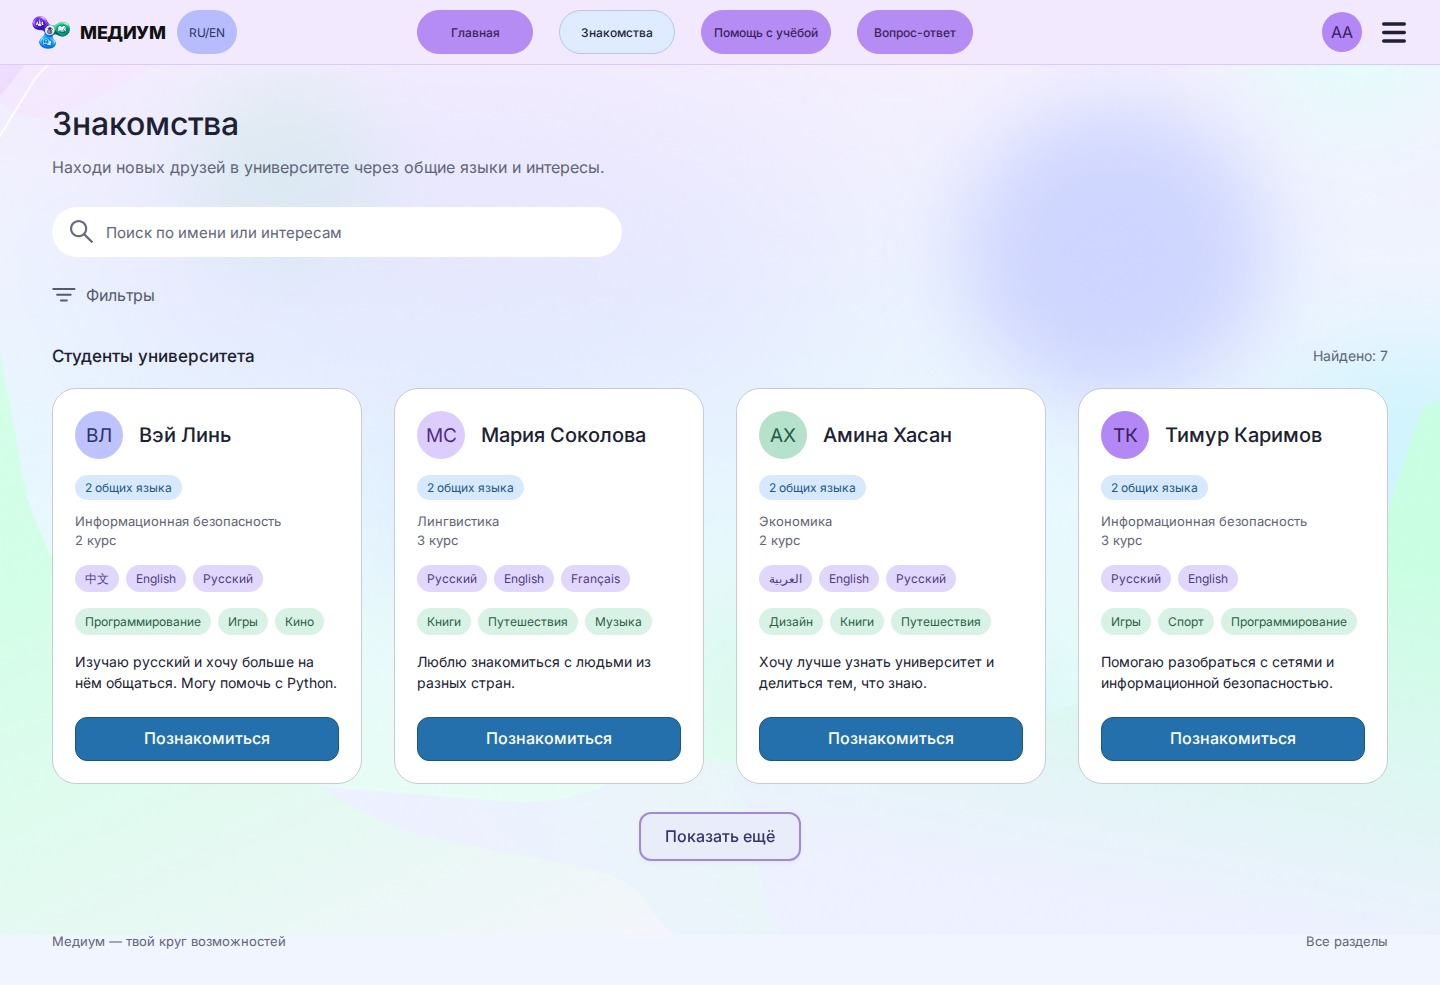
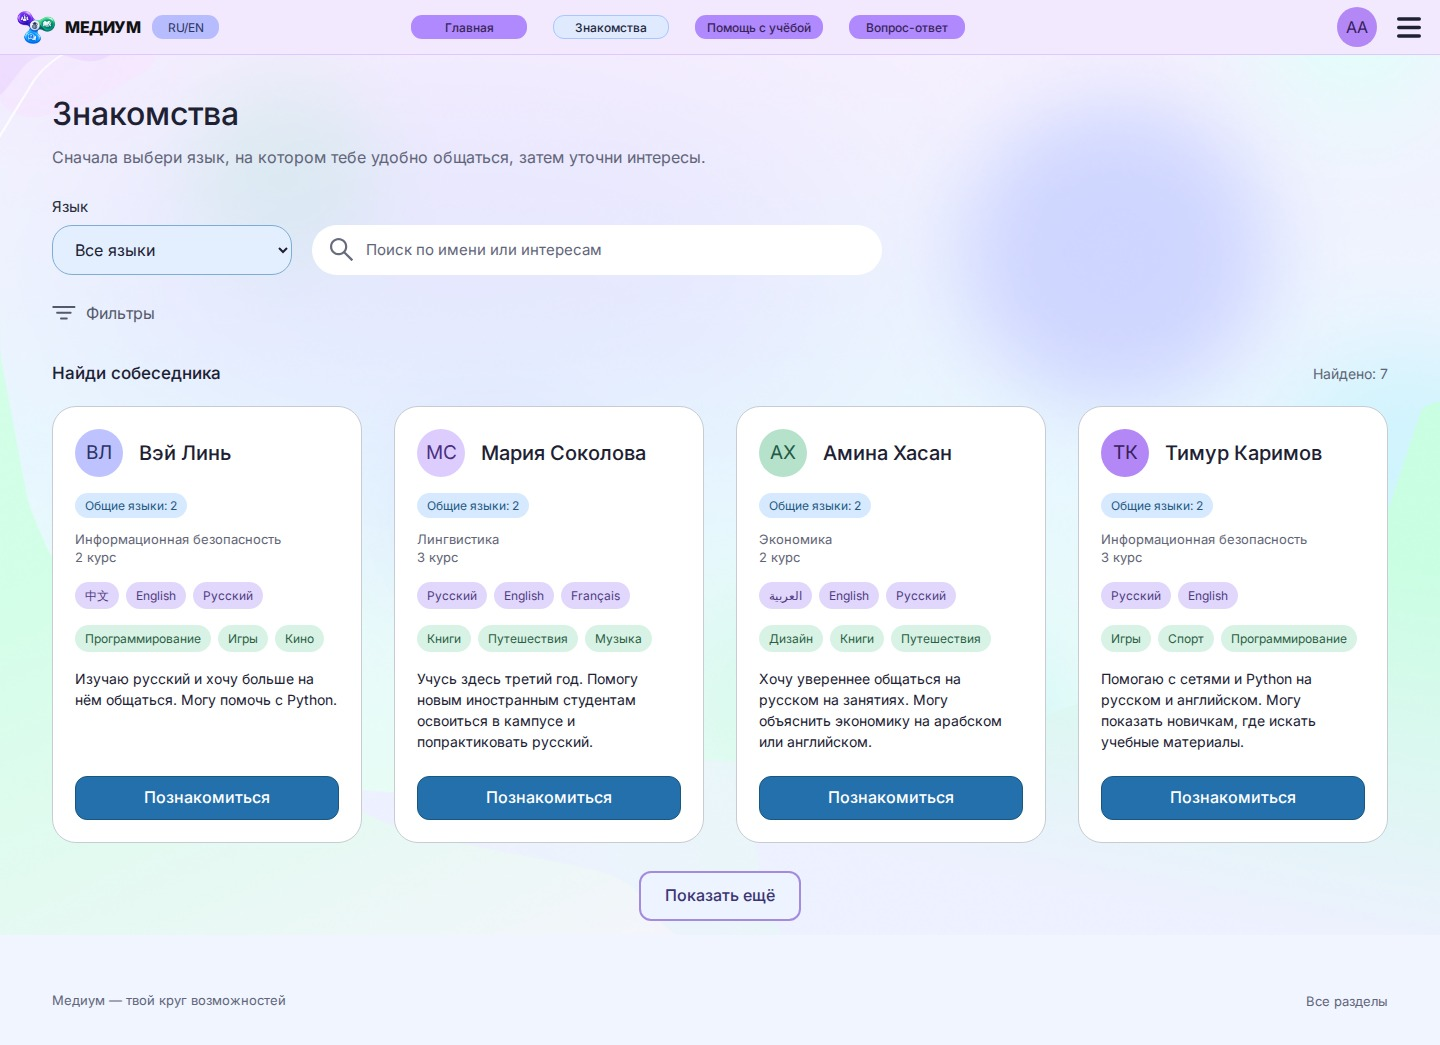
Record verified audience and concept release [skip ci]

diff --git a/docs/REPORT.md b/docs/REPORT.md
@@ -20,7 +20,7 @@
 
 Экраны вопросов и помощи используют общие компоненты. Правила оценки проверены отдельно: оценку ставит автор, повторный выбор заменяет прежний и не начисляет звёзды заново. На телефоне список чатов отделён от переписки; поле ввода размещено в пределах высоты экрана. Исправлено переполнение на узком экране с обычной полосой прокрутки. Текст на светлых кнопках и градиент названия стали темнее, чтобы их было легче читать. Проверка Firefox выявила, что отложенный перевод фокуса на заголовок прерывал ввод в форме. Фокус теперь устанавливается до отрисовки кадра; значения полей считываются сразу в обработчике. Повторный вход проверен в обоих браузерах. На хостинге обнаружены относительные пути CSS-масок: иконки запрашивались из `/assets/assets/` и возвращали 404. Пути стали абсолютными относительно адреса документа; отдельный E2E-тест проверяет HTTP 200 и SVG-содержимое масок. Все браузерные тесты теперь запускаются на production-сборке Vite через preview.
 
-Тексты главной, подсказки, уведомления и демонстрационные описания отредактированы по Humanizer. Русская и английская версии говорят проще; название и слоган бренда сохранены. Убраны лишние обещания и повторения, документация сокращена без изменения команд и ссылок.
+Тексты главной, подсказки, уведомления и демонстрационные описания отредактированы по Humanizer. Русская и английская версии говорят проще; название и слоган бренда сохранены. Убраны лишние обещания и повторения, документация сокращена без изменения команд и ссылок. Подписи счётчиков используют формат «Оценок: 1», «Ответов: 3» и «Общие языки: 2», который подходит для любого числа.
 
 ## Проверки
 
@@ -28,7 +28,7 @@
 | --- | --- |
 | Production-сборка Vite | Прошла |
 | 7 тестов правил приложения | 7 прошли: права на оценку, замена оценки, завершение помощи, публикация, чаты, профиль, хеш пароля, проверка сохранённых данных |
-| Размеры 1440 / 768 / 390 / 320 | 112 проверок: 14 маршрутов на четырёх размерах в Chromium и Firefox; переполнения по горизонтали нет; изображения загружены |
+| Размеры 1440 / 768 / 390 / 320 | 160 проверок: 112 для 14 маршрутов RU и 48 для 6 изменённых маршрутов EN на четырёх размерах в Chromium и Firefox; переполнения по горизонтали нет; изображения загружены |
 | Регистрация и вход | Пустая форма показывает ошибки; аккаунт создаётся; неверный пароль отклоняется; верный пароль открывает сайт |
 | Профиль и знакомства | Профиль сохраняется, работают поиск, пустое состояние и фильтр языка |
 | Вопрос → ответ → оценка | Публикация и ответ проверены от разных демо-пользователей; 5 заменяется на 2; рейтинг обновляется; собственная оценка отключена |
@@ -38,13 +38,13 @@
 | axe A/AA | 44 сканирования 11 маршрутов на ПК и телефоне в Chromium и Firefox; автоматических нарушений не найдено. Полное соответствие WCAG требует также ручной проверки |
 | Скриншоты | 9 экранов ПК и 9 экранов телефона; окно 1440 × 900 и 390 × 844, длинные страницы сняты целиком |
 
-После редактирования текстов на Ubuntu в GitHub Actions прошли все 16 E2E-сценариев в Chromium 153 и Firefox 155. Повторные прогоны не понадобились: ошибок и нестабильных тестов нет. Свежие скриншоты главной, запросов помощи и ответов проверены на ПК и телефоне.
+После уточнения аудитории и оформления на Ubuntu в GitHub Actions прошли все 16 E2E-сценариев в Chromium 153 и Firefox 155. В окончательном прогоне ошибок и нестабильных тестов нет. Свежие скриншоты главной, профиля и рейтинга проверены на ПК и телефоне. Английские варианты изменённых страниц также проверены на четырёх размерах.
 
 ## Репозиторий и результат CI
 
-[Успешная проверка GitHub Actions](https://github.com/JustEd10/medium-student-community/actions/runs/37615534925): 7 тестов логики, 16 E2E сценариев и production-сборка прошли. Проверенный коммит приложения: `2878b09bea0cd89f04ac499fadb06beba57fe6bc`. Результат записан в `ci-check.json`. Локальный запуск отдельных браузеров был заблокирован macOS; независимая проверка выполнена в CI.
+[Успешная проверка GitHub Actions](https://github.com/JustEd10/medium-student-community/actions/runs/37620640917): 7 тестов логики, 16 E2E сценариев и production-сборка прошли. Проверенный коммит приложения: `3c8bad644958f3e6d12b51a89d9bd990053c3bdd`. Результат записан в `ci-check.json`. Локальный запуск отдельных браузеров был заблокирован macOS; независимая проверка выполнена в CI.
 
-GitHub: [JustEd10/medium-student-community](https://github.com/JustEd10/medium-student-community). Репозиторий публичный и доступен без входа в аккаунт. Исходники, тесты, отчёт и 18 скриншотов загружены в ветку `main`. Сайт опубликован: [medium-bob01.amvera.io](https://medium-bob01.amvera.io/). Развёртывание выполнено через Safari в приложении Amvera `medium`: Docker собирает проверенные исходники, Nginx отдаёт production-сборку на порту 80. Главная, вопросы, рейтинг и пятизвёздочные оценки проверены на опубликованном HTTPS-адресе.
+GitHub: [JustEd10/medium-student-community](https://github.com/JustEd10/medium-student-community). Репозиторий публичный и доступен без входа в аккаунт. Исходники, тесты, отчёт и 18 скриншотов загружены в ветку `main`. Обновление загружено на [medium-bob01.amvera.io](https://medium-bob01.amvera.io/) через Safari в приложении Amvera `medium`: Docker собирает проверенные исходники, Nginx отдаёт production-сборку на порту 80. После сборки сайт был доступен; при последней проверке приложение было остановлено (0 реплик), адрес вернул HTTP 503. Проверка опубликованных JavaScript и CSS новой версии не завершена; текущая доступность записана в `deployment-check.json`.
 
 Данные сохраняются в браузере. Для реального обмена между пользователями нужен backend с авторизацией, базой данных и серверным хранением сообщений и оценок. В рамках задания сделана frontend-часть.
 

diff --git a/docs/AMVERA.md b/docs/AMVERA.md
@@ -4,9 +4,9 @@
 
 Сайт работает в приложении `medium`, аккаунте `bob01`, регионе `msk0`. Для публикации через Safari в раздел Code загружены `Dockerfile` и `source.tar.gz`, затем запущена сборка. Создан бесплатный внешний HTTPS-домен. Дополнительные реплики и тариф не менялись.
 
[2 lines of base64/hex data omitted]
 
-После обновления в Amvera стоит статус «Запущено», работает 1 из 1 реплик. HTML, JavaScript, CSS и все 10 SVG-иконок на внешнем HTTPS-адресе совпадают с локальной production-сборкой и возвращают HTTP 200. В Safari проверены русская и английская главная, раздел вопросов, иконки и новый текст правил рейтинга. Результат проверки записан в `deployment-check.json`.
+Архив загружен через Safari в коммит Amvera `9991a43bf16f0157c4729cfc09e921d5f8f5a958`. После сборки наблюдались статус «Запущено» и 1 из 1 реплик. HTML, фон, два логотипа и 10 SVG-иконок совпали с локальной production-сборкой и вернули HTTP 200. При повторной проверке приложение оказалось остановлено: 0 из 0 реплик, внешний адрес вернул HTTP 503. Причина остановки пока не подтверждена; проверка опубликованных JavaScript и CSS этой версии не завершена. Текущее состояние записано в `deployment-check.json`.
 
 ## Повторная публикация через Safari
 

diff --git a/README.md b/README.md
@@ -12,7 +12,7 @@
 
 ## Опубликованный сайт
 
-[Открыть Медиум](https://medium-bob01.amvera.io/). Сайт опубликован в Amvera через Safari и работает по HTTPS.
+[Адрес Медиума](https://medium-bob01.amvera.io/). Обновлённая версия загружена в Amvera через Safari. При последней проверке приложение было остановлено (0 реплик), адрес возвращал HTTP 503; запуск уточняется у владельца.
 
 ## Запуск
 
@@ -81,7 +81,7 @@ npm run test:e2e
 
 Сборка и 7 тестов правил приложения прошли. В браузере Codex проверены пользовательские сценарии при ширине 1440, 768, 390 и 320 пикселей, выбор звёзд клавиатурой и доступность через axe. Результаты и ограничения описаны в [отчёте](docs/REPORT.md).
 
-В GitHub Actions прошли 16 end-to-end тестов production-сборки в Chromium и Firefox, 7 тестов логики и сама сборка. Проверены 112 сочетаний маршрута и ширины, клавиатура, формы, чат, оценки и 44 автоматические проверки доступности. [Успешный запуск CI](https://github.com/JustEd10/medium-student-community/actions/runs/37615534925) проверил код коммита `2878b09`. В локальной среде macOS отдельные процессы браузеров были заблокированы; кроссбраузерная проверка выполнена на Ubuntu в CI. Workflow использует официальные [checkout](https://github.com/actions/checkout), [setup-node](https://github.com/actions/setup-node) и [upload-artifact](https://github.com/actions/upload-artifact).
+В GitHub Actions прошли 16 end-to-end тестов production-сборки в Chromium и Firefox, 7 тестов логики и сама сборка. Проверены 160 сочетаний языка, маршрута и ширины, клавиатура, формы, чат, оценки и 44 автоматические проверки доступности. [Успешный запуск CI](https://github.com/JustEd10/medium-student-community/actions/runs/37620640917) проверил код коммита `3c8bad6`. В локальной среде macOS отдельные процессы браузеров были заблокированы; кроссбраузерная проверка выполнена на Ubuntu в CI. Workflow использует официальные [checkout](https://github.com/actions/checkout), [setup-node](https://github.com/actions/setup-node) и [upload-artifact](https://github.com/actions/upload-artifact).
 
 В режиме разработки можно открыть инструменты проверки:
 

diff --git a/docs/screenshots/README.md b/docs/screenshots/README.md
@@ -1,6 +1,6 @@
 # Скриншоты реализации
 
-Скриншоты сняты Playwright в Chromium после редактирования текстов. Размер окна: 1440 × 900 для ПК и 390 × 844 для телефона. Длинные страницы сняты целиком. На экранах видны демо-профили, вопросы и запросы помощи.
+Скриншоты сняты Playwright в Chromium после уточнения аудитории и сверки оформления с «Концепцией». Размер окна: 1440 × 900 для ПК и 390 × 844 для телефона. Длинные страницы сняты целиком. На экранах видны демо-профили, вопросы и запросы помощи.
 
 | Экран | ПК | Телефон |
 | --- | --- | --- |
@@ -13,3 +13,5 @@
 | Помощь с учёбой | [Открыть](desktop-study.jpg) | [Открыть](mobile-study.jpg) |
 | Запрос помощи | [Открыть](desktop-help-rating.jpg) | [Открыть](mobile-help-rating.jpg) |
 | Переписка | [Открыть](desktop-chat.jpg) | [Открыть](mobile-chat.jpg) |
+
+Источник: [GitHub Actions, запуск 37620640917](https://github.com/JustEd10/medium-student-community/actions/runs/37620640917), коммит `3c8bad644958f3e6d12b51a89d9bd990053c3bdd`. В CI прошли 16 браузерных сценариев; проверены также английские версии шести изменённых страниц при ширине 1440, 768, 390 и 320 пикселей.
